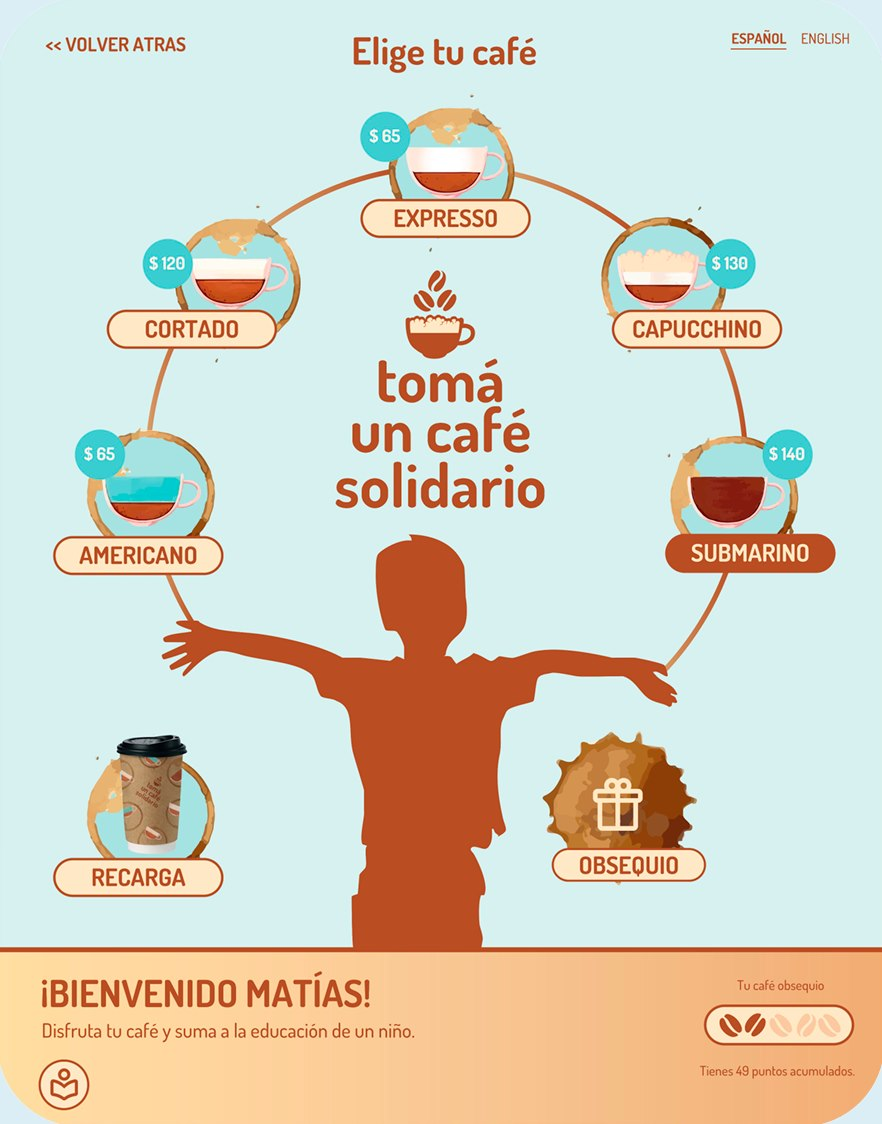
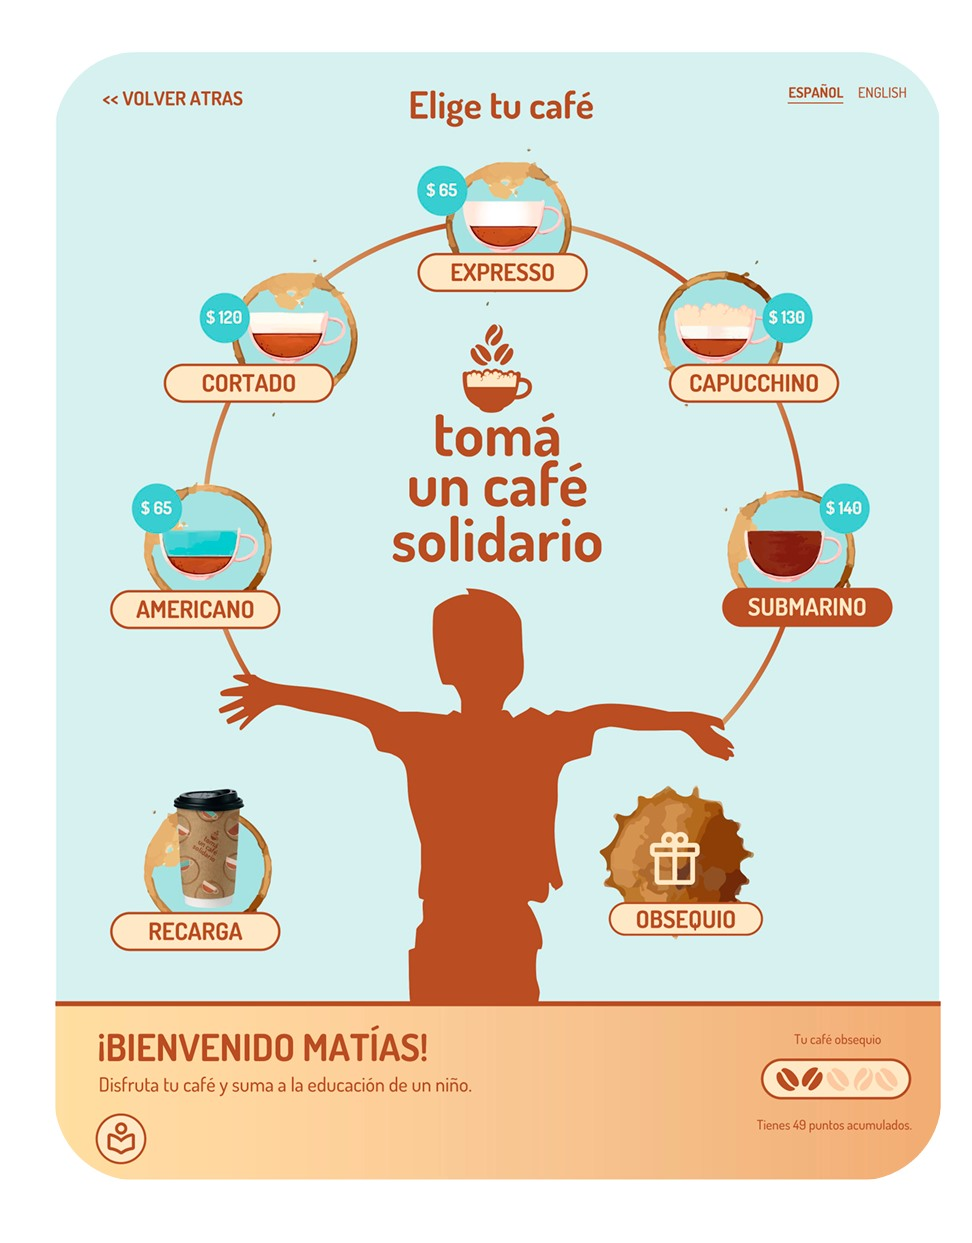
Improve Totem Café gallery sharpness on mobile.
Serve full-resolution PNG screens for the gallery instead of the downscaled JPEGs that looked pixelated on phones, especially the recarga screen.

diff --git a/index.html b/index.html
@@ -6,8 +6,8 @@
   <title>Rodrigo Caimi | Diseñador gráfico web y multimedia</title>
   <meta name="description" content="Portafolio de Rodrigo Caimi, diseñador gráfico web y multimedia. Identidades, experiencias digitales y piezas de comunicación.">
   <link rel="canonical" href="https://rodrigo-caimi.github.io/Porfolio/">
-  <link rel="icon" href="./IMAGENES/logo-rc-64.png?v=20260807d" type="image/png">
-  <link rel="apple-touch-icon" href="./IMAGENES/logo-rc-180.png?v=20260807d">
+  <link rel="icon" href="./IMAGENES/logo-rc-64.png?v=20260807e" type="image/png">
+  <link rel="apple-touch-icon" href="./IMAGENES/logo-rc-180.png?v=20260807e">
   <meta property="og:title" content="Rodrigo Caimi | Diseñador gráfico web y multimedia">
   <meta property="og:description" content="Diseñador gráfico web y multimedia. Identidades, experiencias digitales y piezas de comunicación, combinando diseño, audiovisual e IA.">
   <meta property="og:type" content="website">
@@ -17,11 +17,11 @@
   <link rel="preconnect" href="https://fonts.gstatic.com" crossorigin>
   <link rel="preload" as="image" href="./IMAGENES/hero-rodrigo-20260806-mobile.jpg" media="(max-width: 920px)" fetchpriority="high">
   <link rel="preload" as="image" href="./IMAGENES/hero-rodrigo-20260806.jpg" media="(min-width: 921px)" fetchpriority="high">
-  <link rel="preload" as="image" href="./IMAGENES/cara-dibujo-mobile.jpg?v=20260807d" media="(max-width: 920px)">
-  <link rel="preload" as="image" href="./IMAGENES/cara-dibujo.jpg?v=20260807d" media="(min-width: 921px)">
+  <link rel="preload" as="image" href="./IMAGENES/cara-dibujo-mobile.jpg?v=20260807e" media="(max-width: 920px)">
+  <link rel="preload" as="image" href="./IMAGENES/cara-dibujo.jpg?v=20260807e" media="(min-width: 921px)">
   <link rel="preload" href="https://fonts.googleapis.com/css2?family=DM+Sans:wght@400;700&display=swap" as="style" onload="this.onload=null;this.rel='stylesheet'">
   <noscript><link href="https://fonts.googleapis.com/css2?family=DM+Sans:wght@400;700&display=swap" rel="stylesheet"></noscript>
-  <link rel="stylesheet" href="./css/styles.css?v=20260807d">
+  <link rel="stylesheet" href="./css/styles.css?v=20260807e">
   <style>
     html,body{margin:0;background:#FFFAF0;color:#1C1C1C;font-family:'DM Sans',system-ui,sans-serif}
     .hero-image{background:#EAE4D6}
@@ -33,7 +33,7 @@
     <div class="header-inner">
       <div class="logo">
           <a href="./index.html" aria-label="Inicio">
-            <img class="logo-mark" src="./IMAGENES/logo-rc.png?v=20260807d" alt="Logo Rodrigo Caimi" width="44" height="44" />
+            <img class="logo-mark" src="./IMAGENES/logo-rc.png?v=20260807e" alt="Logo Rodrigo Caimi" width="44" height="44" />
           </a>
         </div>
       <nav class="site-nav" id="site-nav">
@@ -84,8 +84,8 @@
       <div class="hero-image hero-morph" data-hero-morph tabindex="0" role="button" aria-label="Foto de Rodrigo Caimi. Tocá para ver la versión ilustrada.">
         <img
           class="hero-morph-draw"
-          src="./IMAGENES/cara-dibujo-mobile.jpg?v=20260807d"
-          srcset="./IMAGENES/cara-dibujo-mobile.jpg?v=20260807d 480w, ./IMAGENES/cara-dibujo.jpg?v=20260807d 720w"
+          src="./IMAGENES/cara-dibujo-mobile.jpg?v=20260807e"
+          srcset="./IMAGENES/cara-dibujo-mobile.jpg?v=20260807e 480w, ./IMAGENES/cara-dibujo.jpg?v=20260807e 720w"
           sizes="(max-width: 920px) 68vw, min(560px, 40vw)"
           alt="Rodrigo Caimi ilustrado"
           width="480"
@@ -225,10 +225,10 @@
       <div class="spacer"></div>
     </div>
   </footer>
-  <script src="./js/nav.js?v=20260807d" defer></script>
-  <script src="./js/proyectos.js?v=20260807d" defer></script>
-  <script src="./js/trabajos.js?v=20260807d" defer></script>
-  <script src="./js/contacto.js?v=20260807d" defer></script>
+  <script src="./js/nav.js?v=20260807e" defer></script>
+  <script src="./js/proyectos.js?v=20260807e" defer></script>
+  <script src="./js/trabajos.js?v=20260807e" defer></script>
+  <script src="./js/contacto.js?v=20260807e" defer></script>
   <script>
     window.addEventListener('load', function () {
       setTimeout(function () {

diff --git a/trabajos/proyecto-1.html b/trabajos/proyecto-1.html
@@ -4,20 +4,20 @@
   <meta charset="utf-8" />
   <meta name="viewport" content="width=device-width, initial-scale=1" />
   <link rel="canonical" href="https://rodrigo-caimi.github.io/Porfolio/trabajos/proyecto-1.html">
-  <link rel="icon" href="../IMAGENES/logo-rc-64.png?v=20260807d" type="image/png">
-  <link rel="apple-touch-icon" href="../IMAGENES/logo-rc-180.png?v=20260807d">
+  <link rel="icon" href="../IMAGENES/logo-rc-64.png?v=20260807e" type="image/png">
+  <link rel="apple-touch-icon" href="../IMAGENES/logo-rc-180.png?v=20260807e">
   <title>Proyecto — Rodrigo Caimi</title>
   <link rel="preconnect" href="https://fonts.googleapis.com">
   <link rel="preconnect" href="https://fonts.gstatic.com" crossorigin>
   <link href="https://fonts.googleapis.com/css2?family=DM+Sans:ital,opsz,wght@0,9..40,100..1000;1,9..40,100..1000&display=swap" rel="stylesheet">
-  <link rel="stylesheet" href="../css/styles.css?v=20260807d">
+  <link rel="stylesheet" href="../css/styles.css?v=20260807e">
 </head>
 <body data-proyecto-id="1">
   <header>
     <div class="header-inner">
       <div class="logo">
         <a href="../index.html" aria-label="Inicio">
-          <img class="logo-mark" src="../IMAGENES/logo-rc.png?v=20260807d" alt="Logo Rodrigo Caimi" width="44" height="44" />
+          <img class="logo-mark" src="../IMAGENES/logo-rc.png?v=20260807e" alt="Logo Rodrigo Caimi" width="44" height="44" />
         </a>
       </div>
       <nav class="site-nav" id="site-nav">
@@ -78,8 +78,8 @@
     </div>
   </footer>
 
-  <script src="../js/nav.js?v=20260807d"></script>
-  <script src="../js/proyectos.js?v=20260807d"></script>
-  <script src="../js/trabajos.js?v=20260807d"></script>
+  <script src="../js/nav.js?v=20260807e"></script>
+  <script src="../js/proyectos.js?v=20260807e"></script>
+  <script src="../js/trabajos.js?v=20260807e"></script>
 </body>
 </html>

diff --git a/trabajos/proyecto-2.html b/trabajos/proyecto-2.html
@@ -4,20 +4,20 @@
   <meta charset="utf-8" />
   <meta name="viewport" content="width=device-width, initial-scale=1" />
   <link rel="canonical" href="https://rodrigo-caimi.github.io/Porfolio/trabajos/proyecto-2.html">
-  <link rel="icon" href="../IMAGENES/logo-rc-64.png?v=20260807d" type="image/png">
-  <link rel="apple-touch-icon" href="../IMAGENES/logo-rc-180.png?v=20260807d">
+  <link rel="icon" href="../IMAGENES/logo-rc-64.png?v=20260807e" type="image/png">
+  <link rel="apple-touch-icon" href="../IMAGENES/logo-rc-180.png?v=20260807e">
   <title>Proyecto — Rodrigo Caimi</title>
   <link rel="preconnect" href="https://fonts.googleapis.com">
   <link rel="preconnect" href="https://fonts.gstatic.com" crossorigin>
   <link href="https://fonts.googleapis.com/css2?family=DM+Sans:ital,opsz,wght@0,9..40,100..1000;1,9..40,100..1000&display=swap" rel="stylesheet">
-  <link rel="stylesheet" href="../css/styles.css?v=20260807d">
+  <link rel="stylesheet" href="../css/styles.css?v=20260807e">
 </head>
 <body data-proyecto-id="2">
   <header>
     <div class="header-inner">
       <div class="logo">
         <a href="../index.html" aria-label="Inicio">
-          <img class="logo-mark" src="../IMAGENES/logo-rc.png?v=20260807d" alt="Logo Rodrigo Caimi" width="44" height="44" />
+          <img class="logo-mark" src="../IMAGENES/logo-rc.png?v=20260807e" alt="Logo Rodrigo Caimi" width="44" height="44" />
         </a>
       </div>
       <nav class="site-nav" id="site-nav">
@@ -78,8 +78,8 @@
     </div>
   </footer>
 
-  <script src="../js/nav.js?v=20260807d"></script>
-  <script src="../js/proyectos.js?v=20260807d"></script>
-  <script src="../js/trabajos.js?v=20260807d"></script>
+  <script src="../js/nav.js?v=20260807e"></script>
+  <script src="../js/proyectos.js?v=20260807e"></script>
+  <script src="../js/trabajos.js?v=20260807e"></script>
 </body>
 </html>

diff --git a/trabajos/proyecto-3.html b/trabajos/proyecto-3.html
@@ -4,20 +4,20 @@
   <meta charset="utf-8" />
   <meta name="viewport" content="width=device-width, initial-scale=1" />
   <link rel="canonical" href="https://rodrigo-caimi.github.io/Porfolio/trabajos/proyecto-3.html">
-  <link rel="icon" href="../IMAGENES/logo-rc-64.png?v=20260807d" type="image/png">
-  <link rel="apple-touch-icon" href="../IMAGENES/logo-rc-180.png?v=20260807d">
+  <link rel="icon" href="../IMAGENES/logo-rc-64.png?v=20260807e" type="image/png">
+  <link rel="apple-touch-icon" href="../IMAGENES/logo-rc-180.png?v=20260807e">
   <title>Proyecto — Rodrigo Caimi</title>
   <link rel="preconnect" href="https://fonts.googleapis.com">
   <link rel="preconnect" href="https://fonts.gstatic.com" crossorigin>
   <link href="https://fonts.googleapis.com/css2?family=DM+Sans:ital,opsz,wght@0,9..40,100..1000;1,9..40,100..1000&display=swap" rel="stylesheet">
-  <link rel="stylesheet" href="../css/styles.css?v=20260807d">
+  <link rel="stylesheet" href="../css/styles.css?v=20260807e">
 </head>
 <body data-proyecto-id="3">
   <header>
     <div class="header-inner">
       <div class="logo">
         <a href="../index.html" aria-label="Inicio">
-          <img class="logo-mark" src="../IMAGENES/logo-rc.png?v=20260807d" alt="Logo Rodrigo Caimi" width="44" height="44" />
+          <img class="logo-mark" src="../IMAGENES/logo-rc.png?v=20260807e" alt="Logo Rodrigo Caimi" width="44" height="44" />
         </a>
       </div>
       <nav class="site-nav" id="site-nav">
@@ -78,8 +78,8 @@
     </div>
   </footer>
 
-  <script src="../js/nav.js?v=20260807d"></script>
-  <script src="../js/proyectos.js?v=20260807d"></script>
-  <script src="../js/trabajos.js?v=20260807d"></script>
+  <script src="../js/nav.js?v=20260807e"></script>
+  <script src="../js/proyectos.js?v=20260807e"></script>
+  <script src="../js/trabajos.js?v=20260807e"></script>
 </body>
 </html>

diff --git a/trabajos/proyecto-4.html b/trabajos/proyecto-4.html
@@ -4,20 +4,20 @@
   <meta charset="utf-8" />
   <meta name="viewport" content="width=device-width, initial-scale=1" />
   <link rel="canonical" href="https://rodrigo-caimi.github.io/Porfolio/trabajos/proyecto-4.html">
-  <link rel="icon" href="../IMAGENES/logo-rc-64.png?v=20260807d" type="image/png">
-  <link rel="apple-touch-icon" href="../IMAGENES/logo-rc-180.png?v=20260807d">
+  <link rel="icon" href="../IMAGENES/logo-rc-64.png?v=20260807e" type="image/png">
+  <link rel="apple-touch-icon" href="../IMAGENES/logo-rc-180.png?v=20260807e">
   <title>Proyecto — Rodrigo Caimi</title>
   <link rel="preconnect" href="https://fonts.googleapis.com">
   <link rel="preconnect" href="https://fonts.gstatic.com" crossorigin>
   <link href="https://fonts.googleapis.com/css2?family=DM+Sans:ital,opsz,wght@0,9..40,100..1000;1,9..40,100..1000&display=swap" rel="stylesheet">
-  <link rel="stylesheet" href="../css/styles.css?v=20260807d">
+  <link rel="stylesheet" href="../css/styles.css?v=20260807e">
 </head>
 <body data-proyecto-id="4">
   <header>
     <div class="header-inner">
       <div class="logo">
         <a href="../index.html" aria-label="Inicio">
-          <img class="logo-mark" src="../IMAGENES/logo-rc.png?v=20260807d" alt="Logo Rodrigo Caimi" width="44" height="44" />
+          <img class="logo-mark" src="../IMAGENES/logo-rc.png?v=20260807e" alt="Logo Rodrigo Caimi" width="44" height="44" />
         </a>
       </div>
       <nav class="site-nav" id="site-nav">
@@ -78,8 +78,8 @@
     </div>
   </footer>
 
-  <script src="../js/nav.js?v=20260807d"></script>
-  <script src="../js/proyectos.js?v=20260807d"></script>
-  <script src="../js/trabajos.js?v=20260807d"></script>
+  <script src="../js/nav.js?v=20260807e"></script>
+  <script src="../js/proyectos.js?v=20260807e"></script>
+  <script src="../js/trabajos.js?v=20260807e"></script>
 </body>
 </html>

diff --git a/trabajos/proyecto-5.html b/trabajos/proyecto-5.html
@@ -4,20 +4,20 @@
   <meta charset="utf-8" />
   <meta name="viewport" content="width=device-width, initial-scale=1" />
   <link rel="canonical" href="https://rodrigo-caimi.github.io/Porfolio/trabajos/proyecto-5.html">
-  <link rel="icon" href="../IMAGENES/logo-rc-64.png?v=20260807d" type="image/png">
-  <link rel="apple-touch-icon" href="../IMAGENES/logo-rc-180.png?v=20260807d">
+  <link rel="icon" href="../IMAGENES/logo-rc-64.png?v=20260807e" type="image/png">
+  <link rel="apple-touch-icon" href="../IMAGENES/logo-rc-180.png?v=20260807e">
   <title>Proyecto — Rodrigo Caimi</title>
   <link rel="preconnect" href="https://fonts.googleapis.com">
   <link rel="preconnect" href="https://fonts.gstatic.com" crossorigin>
   <link href="https://fonts.googleapis.com/css2?family=DM+Sans:ital,opsz,wght@0,9..40,100..1000;1,9..40,100..1000&display=swap" rel="stylesheet">
-  <link rel="stylesheet" href="../css/styles.css?v=20260807d">
+  <link rel="stylesheet" href="../css/styles.css?v=20260807e">
 </head>
 <body data-proyecto-id="5">
   <header>
     <div class="header-inner">
       <div class="logo">
         <a href="../index.html" aria-label="Inicio">
-          <img class="logo-mark" src="../IMAGENES/logo-rc.png?v=20260807d" alt="Logo Rodrigo Caimi" width="44" height="44" />
+          <img class="logo-mark" src="../IMAGENES/logo-rc.png?v=20260807e" alt="Logo Rodrigo Caimi" width="44" height="44" />
         </a>
       </div>
       <nav class="site-nav" id="site-nav">
@@ -78,8 +78,8 @@
     </div>
   </footer>
 
-  <script src="../js/nav.js?v=20260807d"></script>
-  <script src="../js/proyectos.js?v=20260807d"></script>
-  <script src="../js/trabajos.js?v=20260807d"></script>
+  <script src="../js/nav.js?v=20260807e"></script>
+  <script src="../js/proyectos.js?v=20260807e"></script>
+  <script src="../js/trabajos.js?v=20260807e"></script>
 </body>
 </html>

diff --git a/trabajos/proyecto-6.html b/trabajos/proyecto-6.html
@@ -4,20 +4,20 @@
   <meta charset="utf-8" />
   <meta name="viewport" content="width=device-width, initial-scale=1" />
   <link rel="canonical" href="https://rodrigo-caimi.github.io/Porfolio/trabajos/proyecto-6.html">
-  <link rel="icon" href="../IMAGENES/logo-rc-64.png?v=20260807d" type="image/png">
-  <link rel="apple-touch-icon" href="../IMAGENES/logo-rc-180.png?v=20260807d">
+  <link rel="icon" href="../IMAGENES/logo-rc-64.png?v=20260807e" type="image/png">
+  <link rel="apple-touch-icon" href="../IMAGENES/logo-rc-180.png?v=20260807e">
   <title>Proyecto — Rodrigo Caimi</title>
   <link rel="preconnect" href="https://fonts.googleapis.com">
   <link rel="preconnect" href="https://fonts.gstatic.com" crossorigin>
   <link href="https://fonts.googleapis.com/css2?family=DM+Sans:ital,opsz,wght@0,9..40,100..1000;1,9..40,100..1000&display=swap" rel="stylesheet">
-  <link rel="stylesheet" href="../css/styles.css?v=20260807d">
+  <link rel="stylesheet" href="../css/styles.css?v=20260807e">
 </head>
 <body data-proyecto-id="6">
   <header>
     <div class="header-inner">
       <div class="logo">
         <a href="../index.html" aria-label="Inicio">
-          <img class="logo-mark" src="../IMAGENES/logo-rc.png?v=20260807d" alt="Logo Rodrigo Caimi" width="44" height="44" />
+          <img class="logo-mark" src="../IMAGENES/logo-rc.png?v=20260807e" alt="Logo Rodrigo Caimi" width="44" height="44" />
         </a>
       </div>
       <nav class="site-nav" id="site-nav">
@@ -78,8 +78,8 @@
     </div>
   </footer>
 
-  <script src="../js/nav.js?v=20260807d"></script>
-  <script src="../js/proyectos.js?v=20260807d"></script>
-  <script src="../js/trabajos.js?v=20260807d"></script>
+  <script src="../js/nav.js?v=20260807e"></script>
+  <script src="../js/proyectos.js?v=20260807e"></script>
+  <script src="../js/trabajos.js?v=20260807e"></script>
 </body>
 </html>

diff --git a/trabajos/proyecto-7.html b/trabajos/proyecto-7.html
@@ -4,20 +4,20 @@
   <meta charset="utf-8" />
   <meta name="viewport" content="width=device-width, initial-scale=1" />
   <link rel="canonical" href="https://rodrigo-caimi.github.io/Porfolio/trabajos/proyecto-7.html">
-  <link rel="icon" href="../IMAGENES/logo-rc-64.png?v=20260807d" type="image/png">
-  <link rel="apple-touch-icon" href="../IMAGENES/logo-rc-180.png?v=20260807d">
+  <link rel="icon" href="../IMAGENES/logo-rc-64.png?v=20260807e" type="image/png">
+  <link rel="apple-touch-icon" href="../IMAGENES/logo-rc-180.png?v=20260807e">
   <title>Proyecto — Rodrigo Caimi</title>
   <link rel="preconnect" href="https://fonts.googleapis.com">
   <link rel="preconnect" href="https://fonts.gstatic.com" crossorigin>
   <link href="https://fonts.googleapis.com/css2?family=DM+Sans:ital,opsz,wght@0,9..40,100..1000;1,9..40,100..1000&display=swap" rel="stylesheet">
-  <link rel="stylesheet" href="../css/styles.css?v=20260807d">
+  <link rel="stylesheet" href="../css/styles.css?v=20260807e">
 </head>
 <body data-proyecto-id="7">
   <header>
     <div class="header-inner">
       <div class="logo">
         <a href="../index.html" aria-label="Inicio">
-          <img class="logo-mark" src="../IMAGENES/logo-rc.png?v=20260807d" alt="Logo Rodrigo Caimi" width="44" height="44" />
+          <img class="logo-mark" src="../IMAGENES/logo-rc.png?v=20260807e" alt="Logo Rodrigo Caimi" width="44" height="44" />
         </a>
       </div>
       <nav class="site-nav" id="site-nav">
@@ -78,8 +78,8 @@
     </div>
   </footer>
 
-  <script src="../js/nav.js?v=20260807d"></script>
-  <script src="../js/proyectos.js?v=20260807d"></script>
-  <script src="../js/trabajos.js?v=20260807d"></script>
+  <script src="../js/nav.js?v=20260807e"></script>
+  <script src="../js/proyectos.js?v=20260807e"></script>
+  <script src="../js/trabajos.js?v=20260807e"></script>
 </body>
 </html>

diff --git a/js/proyectos.js b/js/proyectos.js
@@ -93,10 +93,10 @@ const PROYECTOS = [
     tools: 'Figma',
     galleryContain: true,
     gallery: [
-      { src: 'IMAGENES/totem-cafe.jpg', thumb: 'IMAGENES/totem-cafe-thumb.jpg', alt: 'Totem de Café - Menú principal' },
-      { src: 'IMAGENES/totem-recarga.jpg', thumb: 'IMAGENES/totem-recarga-thumb.jpg', alt: 'Recarga completada Totem de Café' },
-      { src: 'IMAGENES/totem-pago.jpg', thumb: 'IMAGENES/totem-pago-thumb.jpg', alt: 'Pago Totem de Café' },
-      { src: 'IMAGENES/totem-compra.jpg', thumb: 'IMAGENES/totem-compra-thumb.jpg', alt: 'Gracias por su compra Totem de Café' }
+      { src: 'IMAGENES/totem-cafe-hq.png', thumb: 'IMAGENES/totem-cafe-thumb.jpg', alt: 'Totem de Café - Menú principal' },
+      { src: 'IMAGENES/totem-recarga-hq.png', thumb: 'IMAGENES/totem-recarga-thumb.jpg', alt: 'Recarga completada Totem de Café' },
+      { src: 'IMAGENES/totem-pago-hq.png', thumb: 'IMAGENES/totem-pago-thumb.jpg', alt: 'Pago Totem de Café' },
+      { src: 'IMAGENES/totem-compra-hq.png', thumb: 'IMAGENES/totem-compra-thumb.jpg', alt: 'Gracias por su compra Totem de Café' }
     ],
     processTitle: 'Cómo se pensó este proyecto',
     process: [

diff --git a/sobre-mi/sobremi.html b/sobre-mi/sobremi.html
@@ -12,8 +12,8 @@
   <meta charset="utf-8" />
   <meta name="viewport" content="width=device-width, initial-scale=1" />
   <link rel="canonical" href="https://rodrigo-caimi.github.io/Porfolio/sobre-mi/sobremi.html">
-  <link rel="icon" href="../IMAGENES/logo-rc-64.png?v=20260807d" type="image/png">
-  <link rel="apple-touch-icon" href="../IMAGENES/logo-rc-180.png?v=20260807d">
+  <link rel="icon" href="../IMAGENES/logo-rc-64.png?v=20260807e" type="image/png">
+  <link rel="apple-touch-icon" href="../IMAGENES/logo-rc-180.png?v=20260807e">
   <title>Sobre mí — Rodrigo Caimi</title>
   <link rel="preconnect" href="https://fonts.googleapis.com">
   <link rel="preconnect" href="https://fonts.gstatic.com" crossorigin>
@@ -30,7 +30,7 @@
     <div class="header-inner">
       <div class="logo">
         <a href="../index.html" aria-label="Inicio">
-          <img class="logo-mark" src="../IMAGENES/logo-rc.png?v=20260807d" alt="Logo Rodrigo Caimi" width="44" height="44" />
+          <img class="logo-mark" src="../IMAGENES/logo-rc.png?v=20260807e" alt="Logo Rodrigo Caimi" width="44" height="44" />
         </a>
       </div>
       <nav class="site-nav" id="site-nav">

diff --git a/css/styles.css b/css/styles.css
@@ -1868,7 +1868,7 @@ body[data-proyecto-id="3"] .main-image {
 }
 
 body[data-proyecto-id="3"] .main-image {
-  aspect-ratio: 882 / 1124;
+  aspect-ratio: 972 / 1243;
   background: #dceef5;
 }
 
@@ -1879,9 +1879,10 @@ body[data-proyecto-id="2"] .main-image img {
 }
 
 body[data-proyecto-id="3"] .main-image img {
-  object-fit: cover !important;
+  object-fit: contain !important;
   object-position: center center;
   background: #dceef5;
+  image-rendering: auto;
 }
 
 body[data-proyecto-id="2"] .thumbnails,
